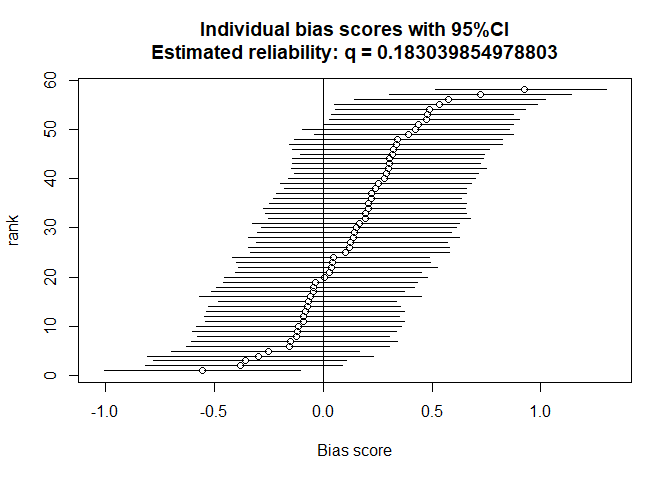
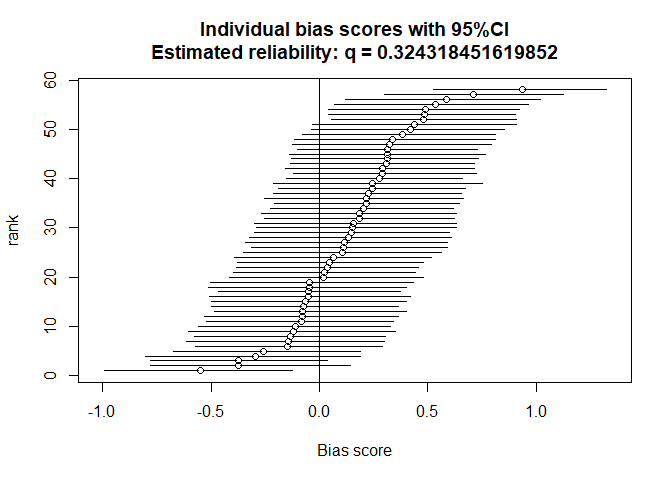
Bugfixes and readme update

diff --git a/docs/reference/q_reliability.html b/docs/reference/q_reliability.html
@@ -135,7 +135,7 @@ and 0 implying that within-subjects and between-subjects variability contribute 
 
     <pre class="usage"><span class='fu'>q_reliability</span>(<span class='kw'>ds</span>, <span class='kw'>subjvar</span>, <span class='kw'>formula</span>, aatterm = <span class='fl'>NA</span>)
 
-<span class='fu'>q_reliability2</span>(<span class='kw'>ds</span>, <span class='kw'>subjvar</span>, <span class='kw'>splitvars</span>, <span class='kw'>rtvar</span>, na.rm = <span class='kw'>F</span>, dscore = <span class='kw'>F</span>)
+<span class='fu'>q_reliability2</span>(<span class='kw'>ds</span>, <span class='kw'>subjvar</span>, <span class='kw'>splitvars</span>, <span class='kw'>rtvar</span>, dscore = <span class='kw'>F</span>, na.rm = <span class='kw'>F</span>)
 
 <span class='co'># S3 method for qreliability</span>
 <span class='fu'><a href='https://rdrr.io/r/base/print.html'>print</a></span>(<span class='kw'>x</span>, <span class='kw'>...</span>)
@@ -171,6 +171,11 @@ reliability of single, double, or even triple difference scores.</p></td>
     <tr>
       <th>rtvar</th>
       <td><p>Column name of the variable containing reaction times</p></td>
+    </tr>
+    <tr>
+      <th>dscore</th>
+      <td><p>If true, reliability will be computed for a difference score
+that is divided by the subject's standard deviation (as in D-scores)</p></td>
     </tr>
     <tr>
       <th>na.rm</th>

diff --git a/docs/reference/aat_covreliability.html b/docs/reference/aat_covreliability.html
@@ -270,10 +270,10 @@ University of Wisconsin.</p>
               algorithm=<span class='st'>"aat_doublemeandiff"</span>,iters=<span class='fl'>100</span>,plot=<span class='fl'>FALSE</span>)
 </div><div class='output co'>#&gt; 
 #&gt; Full-length reliability (Raju's beta):
-#&gt; beta (36) = .42, 95%CI [.1, .64], p = .011
+#&gt; beta (36) = .47, 95%CI [.14, .71], p = .004
 #&gt; 
 #&gt; Uncorrected, average split-half correlation:
-#&gt; r (36) = .28, 95%CI [.05, .47], p = .095</div><div class='input'>
+#&gt; r (36) = .32, 95%CI [.08, .56], p = .055</div><div class='input'>
 <span class='co'>#Testing reliability for single-difference scores</span>
 <span class='kw'>ds</span><span class='op'>&lt;-</span><span class='kw'>ds</span>[<span class='kw'>ds</span><span class='op'>$</span><span class='kw'>is_target</span><span class='op'>==</span><span class='fl'>1</span>,]
 <span class='fu'>aat_covreliability</span>(ds=<span class='kw'>ds</span>,subjvar=<span class='st'>"subj"</span>,stimvar=<span class='st'>"stim"</span>,pullvar=<span class='st'>"is_pull"</span>,rtvar=<span class='st'>"rt"</span>)

diff --git a/docs/reference/correlation-tools.html b/docs/reference/correlation-tools.html
@@ -186,7 +186,7 @@
 #&gt;     confints &lt;- c(z2r(z - zint), z2r(z + zint))
 #&gt;     return(rconfint)
 #&gt; }
-#&gt; &lt;bytecode: 0x000000002352c688&gt;
+#&gt; &lt;bytecode: 0x00000000275c8128&gt;
 #&gt; &lt;environment: namespace:AATtools&gt;</div><div class='input'><span class='fu'><a href='https://rdrr.io/r/base/print.html'>print</a></span>(<span class='fu'>compcorr</span>(<span class='fl'>.5</span>,<span class='fl'>.7</span>,<span class='fl'>20</span>,<span class='fl'>20</span>))
 </div><div class='output co'>#&gt; $zscore
 #&gt; [1] 0.927105

diff --git a/README.md b/README.md
@@ -29,18 +29,18 @@ install.packages("AATtools")
 ## Rationale
 
 Reliability scores are typically not computed for psychological tasks
-that produce a sum score. This has led to a literature full of
-inconsistent results and methodological decisions that have been guided
-by intuition rather than empirical decisionmaking. AATtools tries to
-solve these problems by providing multiple methods of computing the
-reliability of the Approach-Avoidance task as well as other implicit
-psychological tasks. Importantly, it enables researchers to compute the
-reliability of their entire data processing pipeline, factoring in the
-influence of decisions to remove or keep outliers in the final
-reliability score. This gives the researcher a clear overview over how
-reliable the data are that have actually been used in the study’s
-analyses and enables them to explore the best ways to deal with
-non-normality, outliers and error trials.
+that produce scores. This has led to a literature with inconsistent
+results and methodological decisions that have been guided by intuition
+rather than empirical decisionmaking. AATtools tries to solve these
+problems by providing multiple methods of computing the reliability of
+the Approach-Avoidance task as well as other implicit psychological
+tasks. Importantly, it enables researchers to compute the reliability of
+their entire data processing pipeline, factoring in the influence of
+decisions to remove or keep outliers in the final reliability score.
+This gives the researcher a clear overview over how reliable the data
+are that have actually been used in the study’s analyses and enables
+them to explore the best ways to deal with non-normality, outliers and
+error trials.
 
 ## Getting your data in the right format
 
@@ -78,8 +78,11 @@ print(split)
 ```
 
     ## 
-    ## r (58) = 0.52, p = 1.54e-06, 95%CI = [0.38, 0.65]
-    ## Spearman-Brown-corrected r (58) = 0.69, p = 1.35e-13
+    ## Full-length reliability (Raju's beta):
+    ## beta (57.905) = .68, 95%CI [.54, .78], p = 0
+    ## 
+    ## Uncorrected, average split-half correlation:
+    ## r (57.905) = .52, 95%CI [.37, .65], p = 0
 
 ``` r
 plot(split)
@@ -92,7 +95,10 @@ reliability score for your data.
 
 ## An exact reliability score for all implicit tasks with difference scores: `q_reliability()`
 
-This function performs a linear regression to the data of each
+This function computes the reliability of the task in one go and without
+performing many splits, saving time.
+
+`q_reliability()` performs a linear regression to the data of each
 participant, and derives the unstandardized beta and variance of one of
 the predictors. If this predictor is the intercept, the resulting beta
 is functionally equivalent to the simple mean reaction time of the
@@ -100,14 +106,18 @@ participant; if it is a binary main effect, the beta is equivalent to
 the difference between condition 1 and condition 0; and if it’s an
 interaction term, the beta is equivalent to a double-difference score.
 The variance among betas is then compared to the overall variance within
-betas. The reliability computed by `q_reliability` thus represents the
+betas. `q_reliability2()` computes the within- and between-subjects
+variance without performing any regressions and is thus faster and more
+accurate. It allows for the computation of reliability for single or
+double mean difference scores, as well as any difference scores
+standardized by the participant’s standard deviation. The reliability
+computed by `q_reliability()` and `q_reliability2()` represents the
 ratio between between-subjects variance and within-subjects variance,
 where 0 means there is equal variance within and between subjects, and 1
-means the bias scores are entirely accurate. Despite its exact nature,
-`q_reliability` is less representative of your actual experimental data,
-because it does not use the exact algorithms and outlier rejection rules
-that the researcher used - it does not model, for example, the inherent
-variability that is caused by outlier rejection.
+means the bias scores are entirely accurate. These functions do not
+factor in variability caused by the outlier rejection rules that the
+researcher used; therefore, they cannot model the confidence intervals
+for the reliability coefficient.
 
 ``` r
 dataset_relevant <- erotica[erotica$is_irrelevant==0,] 
@@ -123,20 +133,20 @@ qreliability_relevant <-
 print(qreliability_relevant)
 ```
 
-    ## q = 0.5010847
+    ## q = 0.6676301
 
 ``` r
 # Reliability of the irrelevant-feature AAT
 qreliability_irrelevant <- 
-  q_reliability(ds=dataset_irrelevant,
+  q_reliability2(ds=dataset_irrelevant,
                 subjvar="subject",
-                formula=RT~is_pull*is_target,
-                aatterm="is_pull:is_target"
+                splitvars=c("is_pull","is_target"),
+                rtvar="RT"
                 )
 print(qreliability_irrelevant)
 ```
 
-    ## q = -0.1108101
+    ## q = -0.2478222
 
 ## Computing Cronbach’s alpha for your experiment
 
@@ -145,11 +155,10 @@ reliability of psychological experiments. In the context of the AAT,
 approach bias scores are computed per stimulus for each participant,
 after which Cronbach’s alpha is computed by treating each stimulus
 approach bias score as a separate item in a questionnaire. This method
-is heavily dependent on the number of stimuli included in the
-experiment, rather than the number of trials as a whole. Additionally,
-it does not tolerate missing trials, meaning either outliers need to be
-included or winsorized, or entire stimuli or participants must be
-excluded. It has been included for the sake of completeness.
+does not take into account variability in raw reaction times and is
+heavily dependent on the number of stimuli included in the experiment,
+rather than the number of trials as a whole. Despite its inaccuracy, it
+has been included for the sake of completeness.
 
 ``` r
 dataset <- erotica
@@ -157,20 +166,24 @@ dataset <- erotica
 dataset$stimulus<- substr(as.character(dataset$stimulus),5,5)
 
 #We use the special jackknife function, which allows us to diagnose flaws in the experiment by computing Cronbach's alpha while single stimuli or participants are excluded.
-alpha<-aat_alpha_jackknife(ds=dataset, #The dataset
-                           subjvar="subject", #Name of the column with participant IDs
-                           stimvar="stimulus",#Name of the column with stimulus IDs
-                           pullvar="is_pull", #Name of the column indicating approach or avoid trial
-                           rtvar="RT",        #Name of the column indicating reaction time
-                           algorithm="aat_singlemeandiff") #Method to compute stimulus-specific approach bias scores with. Currently limited to mean and median difference scores.
+alpha<-aat_covreliability_jackknife(ds=dataset, #The dataset
+                                    subjvar="subject", #Name of the column with participant IDs
+                                    stimvar="stimulus",#Name of the column with stimulus IDs
+                                    pullvar="is_pull", #Name of the column indicating approach or avoid trial
+                                    rtvar="RT",        #Name of the column indicating reaction time
+                                    algorithm="calpha") #Reliability computation method. calpha is Cronbach's alpha
+```
 
+    ## Warning in if ("cross" == holdout) {: the condition has length > 1 and only the
+    ## first element will be used
+
+``` r
 print(alpha)
 ```
 
-    ## Alpha = 0.21
-    ## Based on 10 valid stimuli and 58 valid participants.
-    ## Largest alpha achieveable through single stimulus omission = 0.28 (3)
-    ## Largest alpha achieveable through single participant omission = 0.27 (subject-56)
+    ## Reliability: r = .21
+    ## Maximum achieveable reliability is with removal of participant 56: r = .27
+    ## Maximum achieveable reliability is with removal of stimulus 3: r = .28
 
 ``` r
 plot(alpha)
@@ -184,7 +197,8 @@ The `aat_bootstrap` function can be used to compute bias scores from
 random permutations of the data, and derive per-participant confidence
 intervals from these bootstrapped bias scores. This lets users quantify
 for which participants the bias scores are accurate and for which
-participants they are not.
+participants they are not. This method also allows for the computation
+of reliability through bootstrapping.
 
 ``` r
 dataset <- erotica
@@ -204,9 +218,9 @@ print(boot)
 ```
 
     ## Bootstrapped bias scores and confidence intervals
-    ## Mean bias score: 0.1385118
-    ## Mean confidence interval: 0.8995987
-    ## reliability: q = 0.1385118
+    ## Mean bias score: 0.1381435
+    ## Mean confidence interval: 0.8862338
+    ## reliability: q = 0.3243185
     ## Number of iterations: 1000
 
 ``` r
@@ -239,3 +253,21 @@ plot(all_scores$ab.x,all_scores$ab.y)
 
 Evidently, there is no relationship between relevant-feature and
 irrelevant-feature bias scores in this dataset.
+
+## Simulating datasets
+
+For the sake of power analysis or methodological research, it may be
+desired to generate a random dataset. `aat_simulate()` can be used for
+this purpose. A lot of parameters can be adjusted, but one can opt-in to
+use default values derived from pre-existing datasets as well.
+
+``` r
+ds<-aat_simulate2(defaults="Lender2018_relevant_clean")
+par(mfrow=c(1,2))
+hist(ds$rt)
+q_reliability2(ds=ds,subjvar="subj",splitvars=c("is_pull","is_target"),rtvar="rt",dscore=T)
+```
+
+    ## q = 0.686825
+
+![](man/figures/simulate-1.png)<!-- -->
